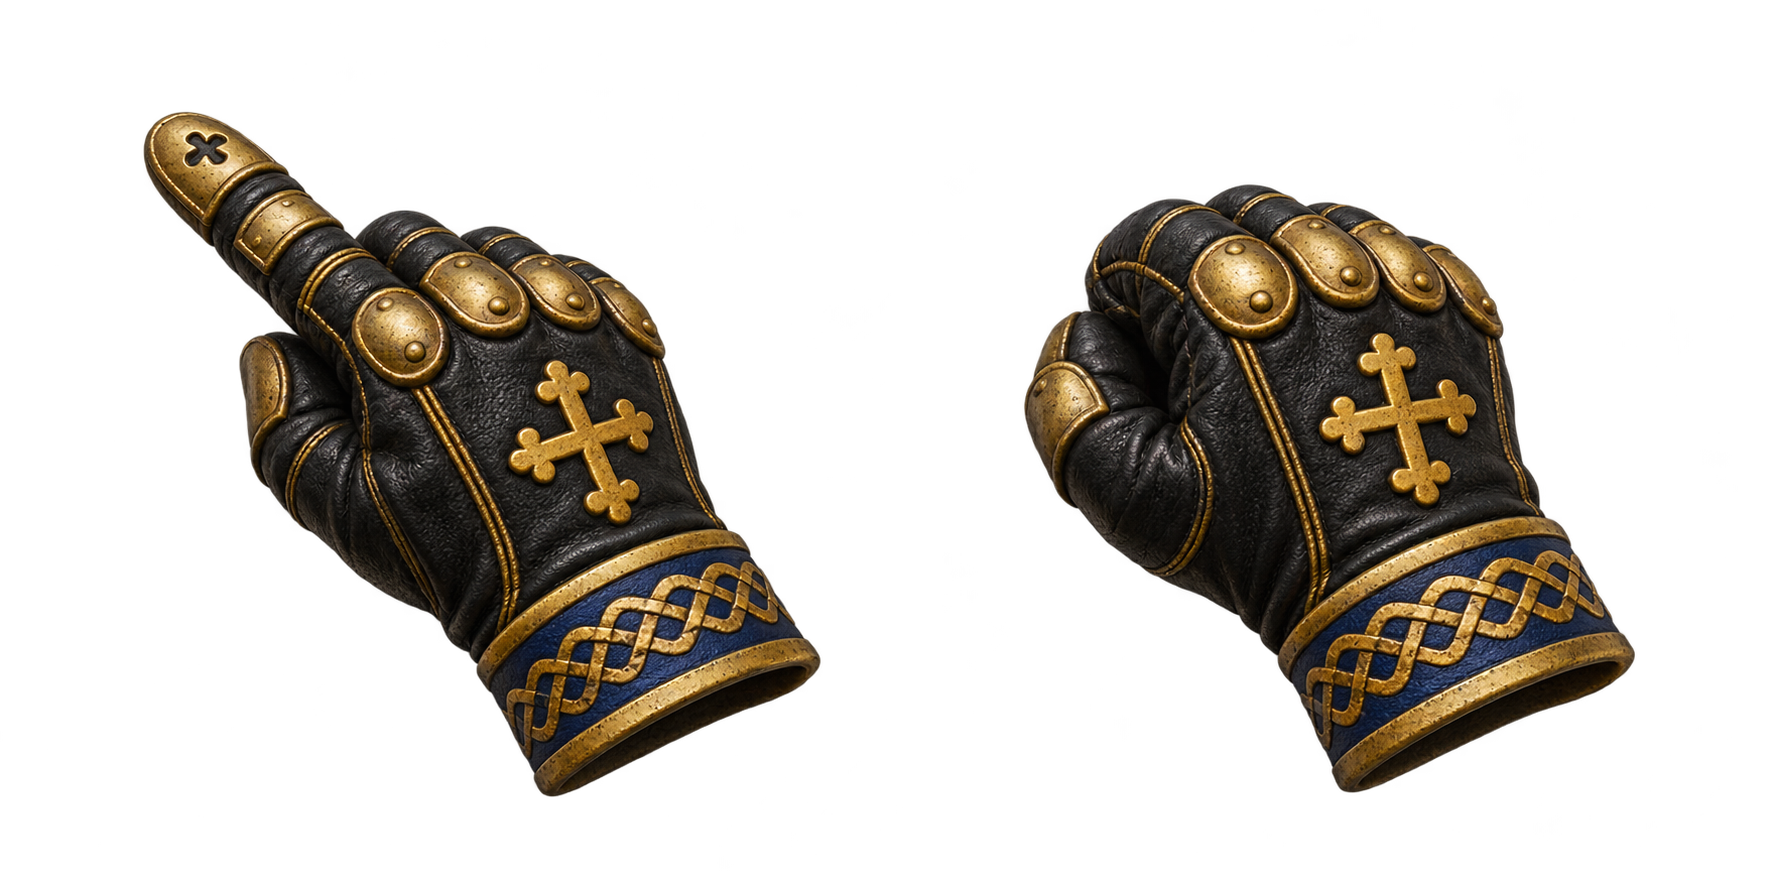
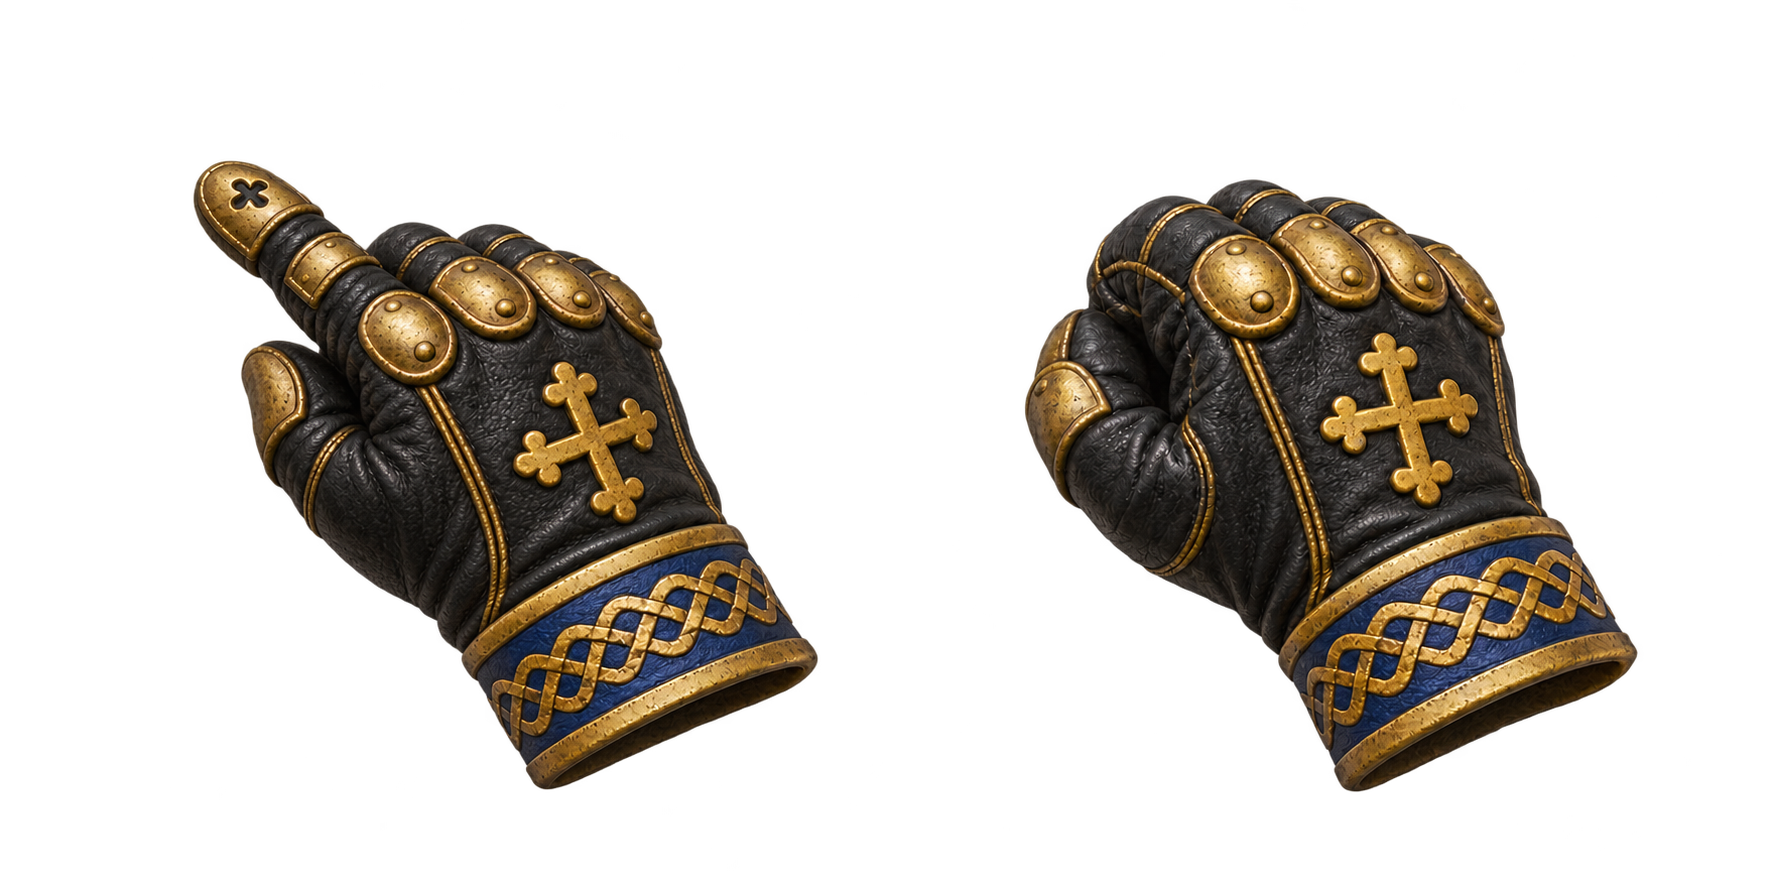
Shorten cursor finger and align pointer hotspot

Changed region(s): [[0.062, 0.1218, 0.4651, 0.9132], [0.5581, 0.1826, 0.9301, 0.8828]]

diff --git a/Assets/Scripts/CursorPreviewCapture.cs b/Assets/Scripts/CursorPreviewCapture.cs
@@ -68,7 +68,7 @@ public sealed class CursorPreviewCapture : MonoBehaviour
         var hand=cursor.GetComponentInChildren<RawImage>(true);
         var expected=Resources.Load<Texture2D>(ByzantineCursor.ResourcePath);
         Check(expected!=null&&hand!=null&&hand.texture==expected,"displayed image uses requested resource");
-        Check(expected.width>0&&expected.height>0&&expected.width==expected.height,"square source prevents stretched proportions");
+        Check(expected.width>0&&expected.height>0&&expected.width==expected.height*2,"two square cursor cells prevent stretched proportions");
         Canvas.ForceUpdateCanvases();
         Check(Mathf.Approximately(hand.rectTransform.rect.width,ByzantineCursor.PixelSize)&&Mathf.Approximately(hand.rectTransform.rect.height,ByzantineCursor.PixelSize),"actual cursor dimensions match PixelSize");
         Check(Mathf.Approximately(ByzantineCursor.PixelSize,56f),"preview uses actual 56 pixel cursor");
@@ -92,6 +92,9 @@ public sealed class CursorPreviewCapture : MonoBehaviour
         Capture("01-cursor-actual-size.png");
         AddEnlargedPanel(expected);
         Capture("02-cursor-four-times.png");
+        hand.uvRect=new Rect(.5f,0,.5f,1);hand.rectTransform.pivot=new Vector2(.5f,.65f);
+        var enlarged=GameObject.Find("Enlarged cursor").GetComponent<RawImage>();enlarged.uvRect=hand.uvRect;
+        Capture("03-grip-four-times.png");
         Check(FindObjectOfType<VariableSingleton>()==null,"preview remains outside campaign");
     }
 
@@ -104,7 +107,7 @@ public sealed class CursorPreviewCapture : MonoBehaviour
         ImperialTheme.Panel(panel,false);panel.GetComponent<Image>().raycastTarget=false;
         var label=CampaignHUD.Label(panel.transform,"Cursor · 4× enlargement",new Vector2(.05f,.85f),new Vector2(.95f,.98f),23);label.alignment=TextAlignmentOptions.Center;
         var obj=new GameObject("Enlarged cursor",typeof(RectTransform),typeof(RawImage));obj.transform.SetParent(panel.transform,false);
-        var image=obj.GetComponent<RawImage>();image.texture=texture;image.raycastTarget=false;
+        var image=obj.GetComponent<RawImage>();image.texture=texture;image.uvRect=new Rect(0,0,.5f,1);image.raycastTarget=false;
         var area=obj.GetComponent<RectTransform>();area.anchorMin=area.anchorMax=new Vector2(.5f,.45f);area.pivot=new Vector2(.5f,.5f);area.sizeDelta=Vector2.one*ByzantineCursor.PixelSize*4;
     }
 

diff --git a/Assets/Scripts/ByzantineCursor.cs b/Assets/Scripts/ByzantineCursor.cs
@@ -6,7 +6,7 @@ public class ByzantineCursor:MonoBehaviour
 {
     public const string ResourcePath = "UI/MidnightMosaic/cursor-black-gold-pair";
     public const float PixelSize = 56f;
-    public static readonly Vector2 Hotspot = new Vector2(.17f, .87f);
+    public static readonly Vector2 Hotspot = new Vector2(208f/887f, 1f-168f/887f);
     private RectTransform hand;private Canvas layer;private RawImage image;
     static Object gripOwner;
     public static bool IsGripping=>gripOwner!=null;
@@ -17,7 +17,7 @@ public class ByzantineCursor:MonoBehaviour
         var texture=Resources.Load<Texture2D>(ResourcePath);if(texture==null){enabled=false;return;}
         layer=gameObject.AddComponent<Canvas>();layer.renderMode=RenderMode.ScreenSpaceOverlay;layer.sortingOrder=32760;
         var imageObject=new GameObject("Hand",typeof(RectTransform),typeof(RawImage));imageObject.transform.SetParent(transform,false);hand=imageObject.GetComponent<RectTransform>();hand.sizeDelta=Vector2.one * PixelSize;hand.pivot=Hotspot; // Opaque upper-left fingertip is the click point.
-        image=imageObject.GetComponent<RawImage>();image.texture=texture;image.raycastTarget=false;
+        image=imageObject.GetComponent<RawImage>();image.texture=texture;image.uvRect=new Rect(0,0,.5f,1);image.raycastTarget=false;
     }
     private void LateUpdate(){if(layer==null)return;Vector3 p=Input.mousePosition;bool inside=p.x>=0&&p.y>=0&&p.x<Screen.width&&p.y<Screen.height&&Application.isFocused;layer.enabled=inside;Cursor.visible=!inside;hand.position=p;bool grip=gripOwner!=null;image.uvRect=new Rect(grip?.5f:0,0,.5f,1);hand.pivot=grip?new Vector2(.5f,.65f):Hotspot;if(!Input.GetMouseButton(0))gripOwner=null;}
     private void OnApplicationFocus(bool focus){if(!focus){gripOwner=null;Cursor.visible=true;if(layer!=null)layer.enabled=false;}}
